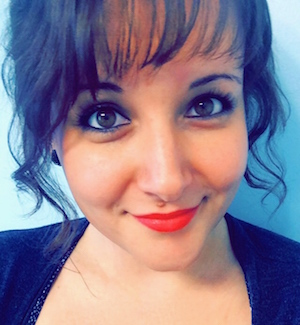
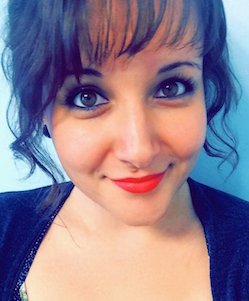
resized headshot

diff --git a/css/creative.css b/css/creative.css
@@ -484,8 +484,8 @@ body {
 
 .circular {
     margin: auto;
-    width: 300px;
-    height: 300px;
+    width: 250px;
+    height: 250px;
     border-radius: 150px;
     -webkit-border-radius: 150px;
     -moz-border-radius: 150px;
